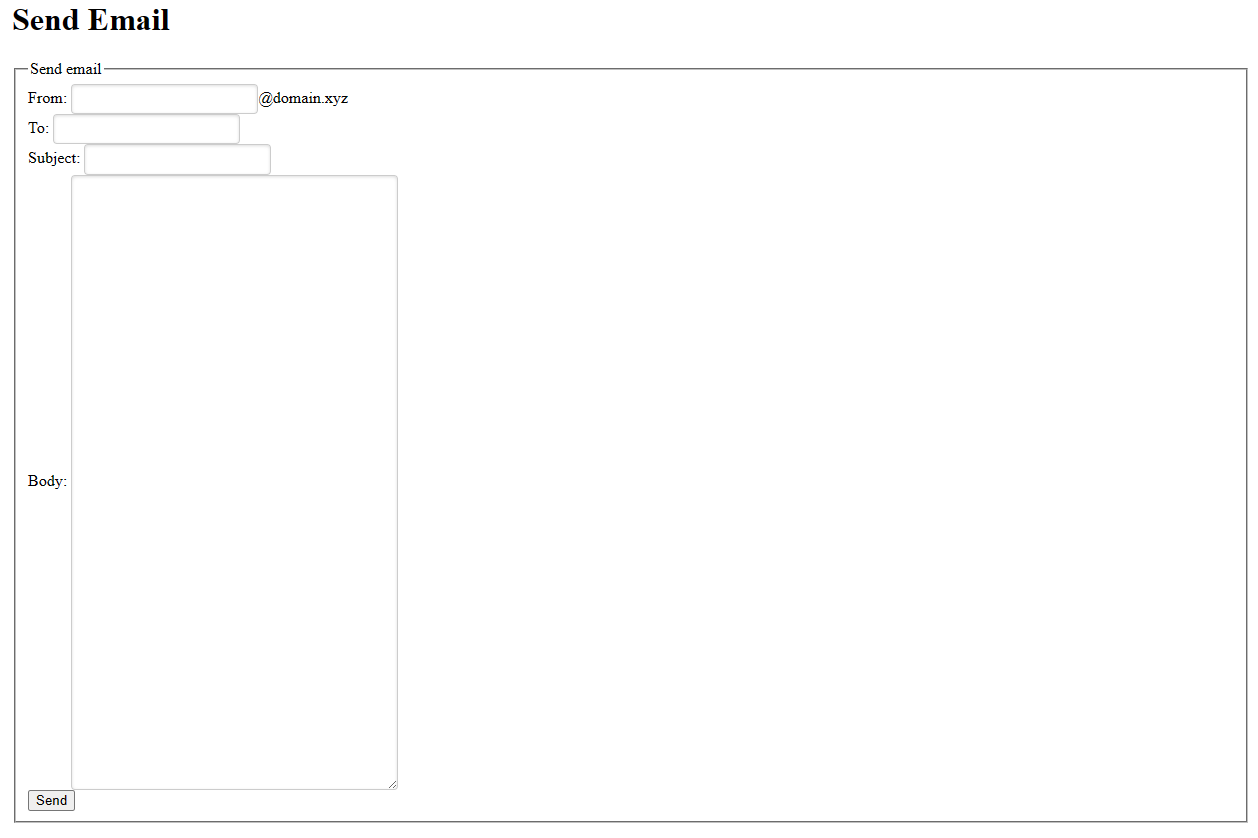
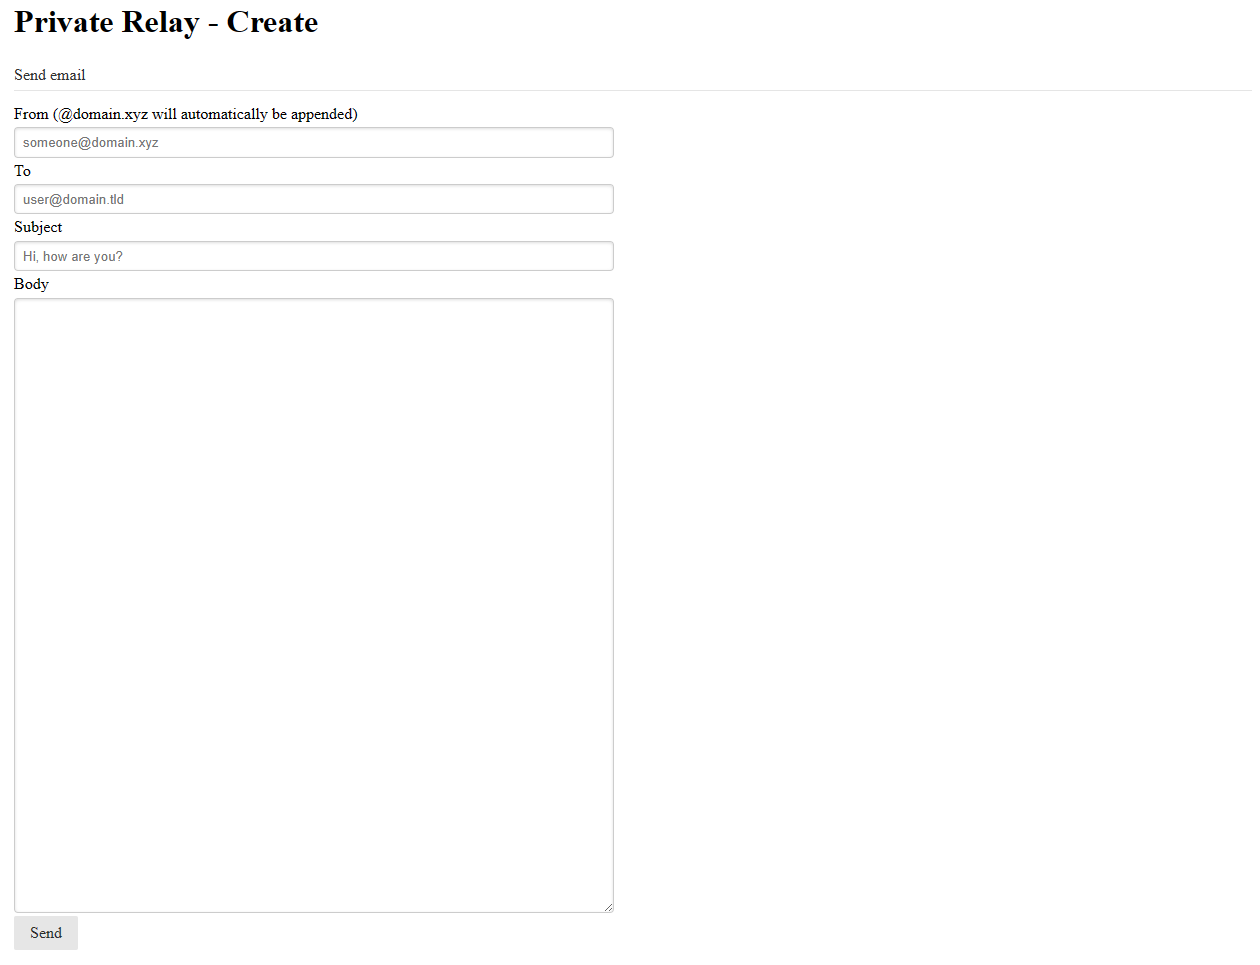
Improve create email form UI

diff --git a/create_email_lambda.py b/create_email_lambda.py
@@ -19,7 +19,7 @@ UNATHED_RESP = {
     "statusCode": 401,
     "statusDescription": "Unauthorized",
     "headers": {
-        "WWW-Authenticate": "Basic"
+        "WWW-Authenticate": "Basic realm=\"Private Relay\", charset=\"UTF-8\""
     }
 }
 
@@ -27,75 +27,104 @@ BASE = """
 <!doctype html>
 <html>
 <head>
-<style>
+<style type="text/css">
 html {{
   line-height:1.15;
 }}
 body {{
-margin: 1em;
+  margin: 1em;
 }}
 h1 {{
   font-size: 2em;
   margin: .67em 0;
 }}
-input[type=email], input[type=text], textarea {{
-  padding: .5em .6em;
-  display: inline-block;
-  border: 1px solid #ccc;
-  box-shadow: inset 0 1px 3px #ddd;
-  border-radius:4px;
-  vertical-align:middle;
-  box-sizing:border-box
+.form input[type="text"],
+.form input[type="email"],
+.form textarea {{
+    padding: 0.5em 0.6em;
+    display: inline-block;
+    border: 1px solid #ccc;
+    box-shadow: inset 0 1px 3px #ddd;
+    border-radius: 4px;
+    vertical-align: middle;
+    box-sizing: border-box;
+    width: 600px;
 }}
-input:not([type]) {{
-  padding:.5em .6em;
-  display:inline-block;
-  border:1px solid #ccc;
-  box-shadow:inset 0 1px 3px #ddd;
-  border-radius:4px;
-  box-sizing:border-box;
+.form input[type="text"]:focus,
+.form input[type="email"]:focus,
+.form textarea:focus {{
+    outline: 0;
+    border-color: #129FEA;
 }}
-input[type=email]:focus, input[type=text]:focus, textarea:focus {{
-  outline:0;
-  border-color:#129fea;
+.form label {{
+    margin: 0.5em 0 0.2em;
 }}
-input:not([type]):focus {{
-  outline:0;
-  border-color:#129fea;
+.form fieldset {{
+    margin: 0;
+    padding: 0.35em 0 0.75em;
+    border: 0;
+}}
+.form legend {{
+    display: block;
+    width: 100%;
+    padding: 0.3em 0;
+    margin-bottom: 0.3em;
+    color: #333;
+    border-bottom: 1px solid #e5e5e5;
+}}
+.form-stacked input[type="text"],
+.form-stacked input[type="email"],
+.form-stacked label,
+.form-stacked textarea {{
+    display: block;
+    margin: 0.25em 0;
+}}
+.button {{
+    font-family: inherit;
+    font-size: 100%;
+    padding: 0.5em 1em;
+    color: rgba(0, 0, 0, 0.80);
+    border: none rgba(0, 0, 0, 0);
+    background-color: #E6E6E6;
+    text-decoration: none;
+    border-radius: 2px;
+}}
+.button-hover,
+.button:hover,
+.button:focus {{
+    background-image: linear-gradient(transparent, rgba(0,0,0, 0.05) 40%, rgba(0,0,0, 0.10));
+}}
+.button:focus {{
+    outline: 0;
+}}
+.button-active,
+.button:active {{
+    box-shadow: 0 0 0 1px rgba(0,0,0, 0.15) inset, 0 0 6px rgba(0,0,0, 0.20) inset;
+    border-color: #000;
 }}
 </style>
-<title>Send Email</title>
+<title>Private Relay - Create</title>
 </head>
 <body>
-<h1>Send Email</h1>
+<h1>Private Relay - Create</h1>
 {content}
 </body>
 <html>
 """
 
 FORM_CONTENT = """
-<form action="/send" method="POST">
+<form action="/send" method="POST" class="form form-stacked">
 <fieldset>
   <legend>Send email</legend>
-  <div>
-  <label for="from">From: </label>
-  <input id="from" name="from" type="text" />@{domain}
-  </div>
-  <div>
-  <label for="to">To:</label>
-  <input id="to" name="to" type="text" />
-  </div>
-  <div>
-  <label for="subject">Subject:</label>
-  <input id="subject" name="subject" type="text" />
-  </div>
-  <div>
-  <label for="body">Body:</label>
+  <label for="from">From  (@{domain} will automatically be appended)</label>
+  <input type="email" id="from" name="from" placeholder="someone@{domain}" />
+  <label for="to">To</label>
+  <input type="email" id="to" name="to" placeholder="user@domain.tld" />
+  <label for="subject">Subject</label>
+  <input type="text" id="subject" name="subject" placeholder="Hi, how are you?" />
+  <label for="body">Body</label>
   <textarea id="body" name="body" rows="40" cols="40"></textarea>
-  </div>
-  <div>
-  <button type="submit">Send</button>
-  </div>
+  <button type="submit" class="button">Send</button>
 </fieldset>
 </form>
 """

diff --git a/web_lambda.py b/web_lambda.py
@@ -10,7 +10,7 @@ UNATHED_RESP = {
     "statusCode": 401,
     "statusDescription": "Unauthorized",
     "headers": {
-        "WWW-Authenticate": "Basic"
+        "WWW-Authenticate": "Basic realm=\"Private Relay\", charset=\"UTF-8\""
     }
 }
 
@@ -18,15 +18,12 @@ BASE = """
 <!doctype html>
 <html>
 <head>
-<style>
+<style type="text/css">
 html {{
   line-height:1.15;
 }}
 body {{
-margin: 1em;
-}}
-main {{
-  display: block;
+  margin: 1em;
 }}
 h1 {{
   font-size: 2em;
@@ -149,10 +146,10 @@ h1 {{
   font-size: 1rem;
 }}
 </style>
-<title>Private Relay Statistics</title>
+<title>Private Relay - Statistics</title>
 </head>
 <body>
-<h1>Private Relay Statistics</h1>
+<h1>Private Relay - Statistics</h1>
 <h2>History</h2>
 {history}
 <h2>Blocklist</h2>
